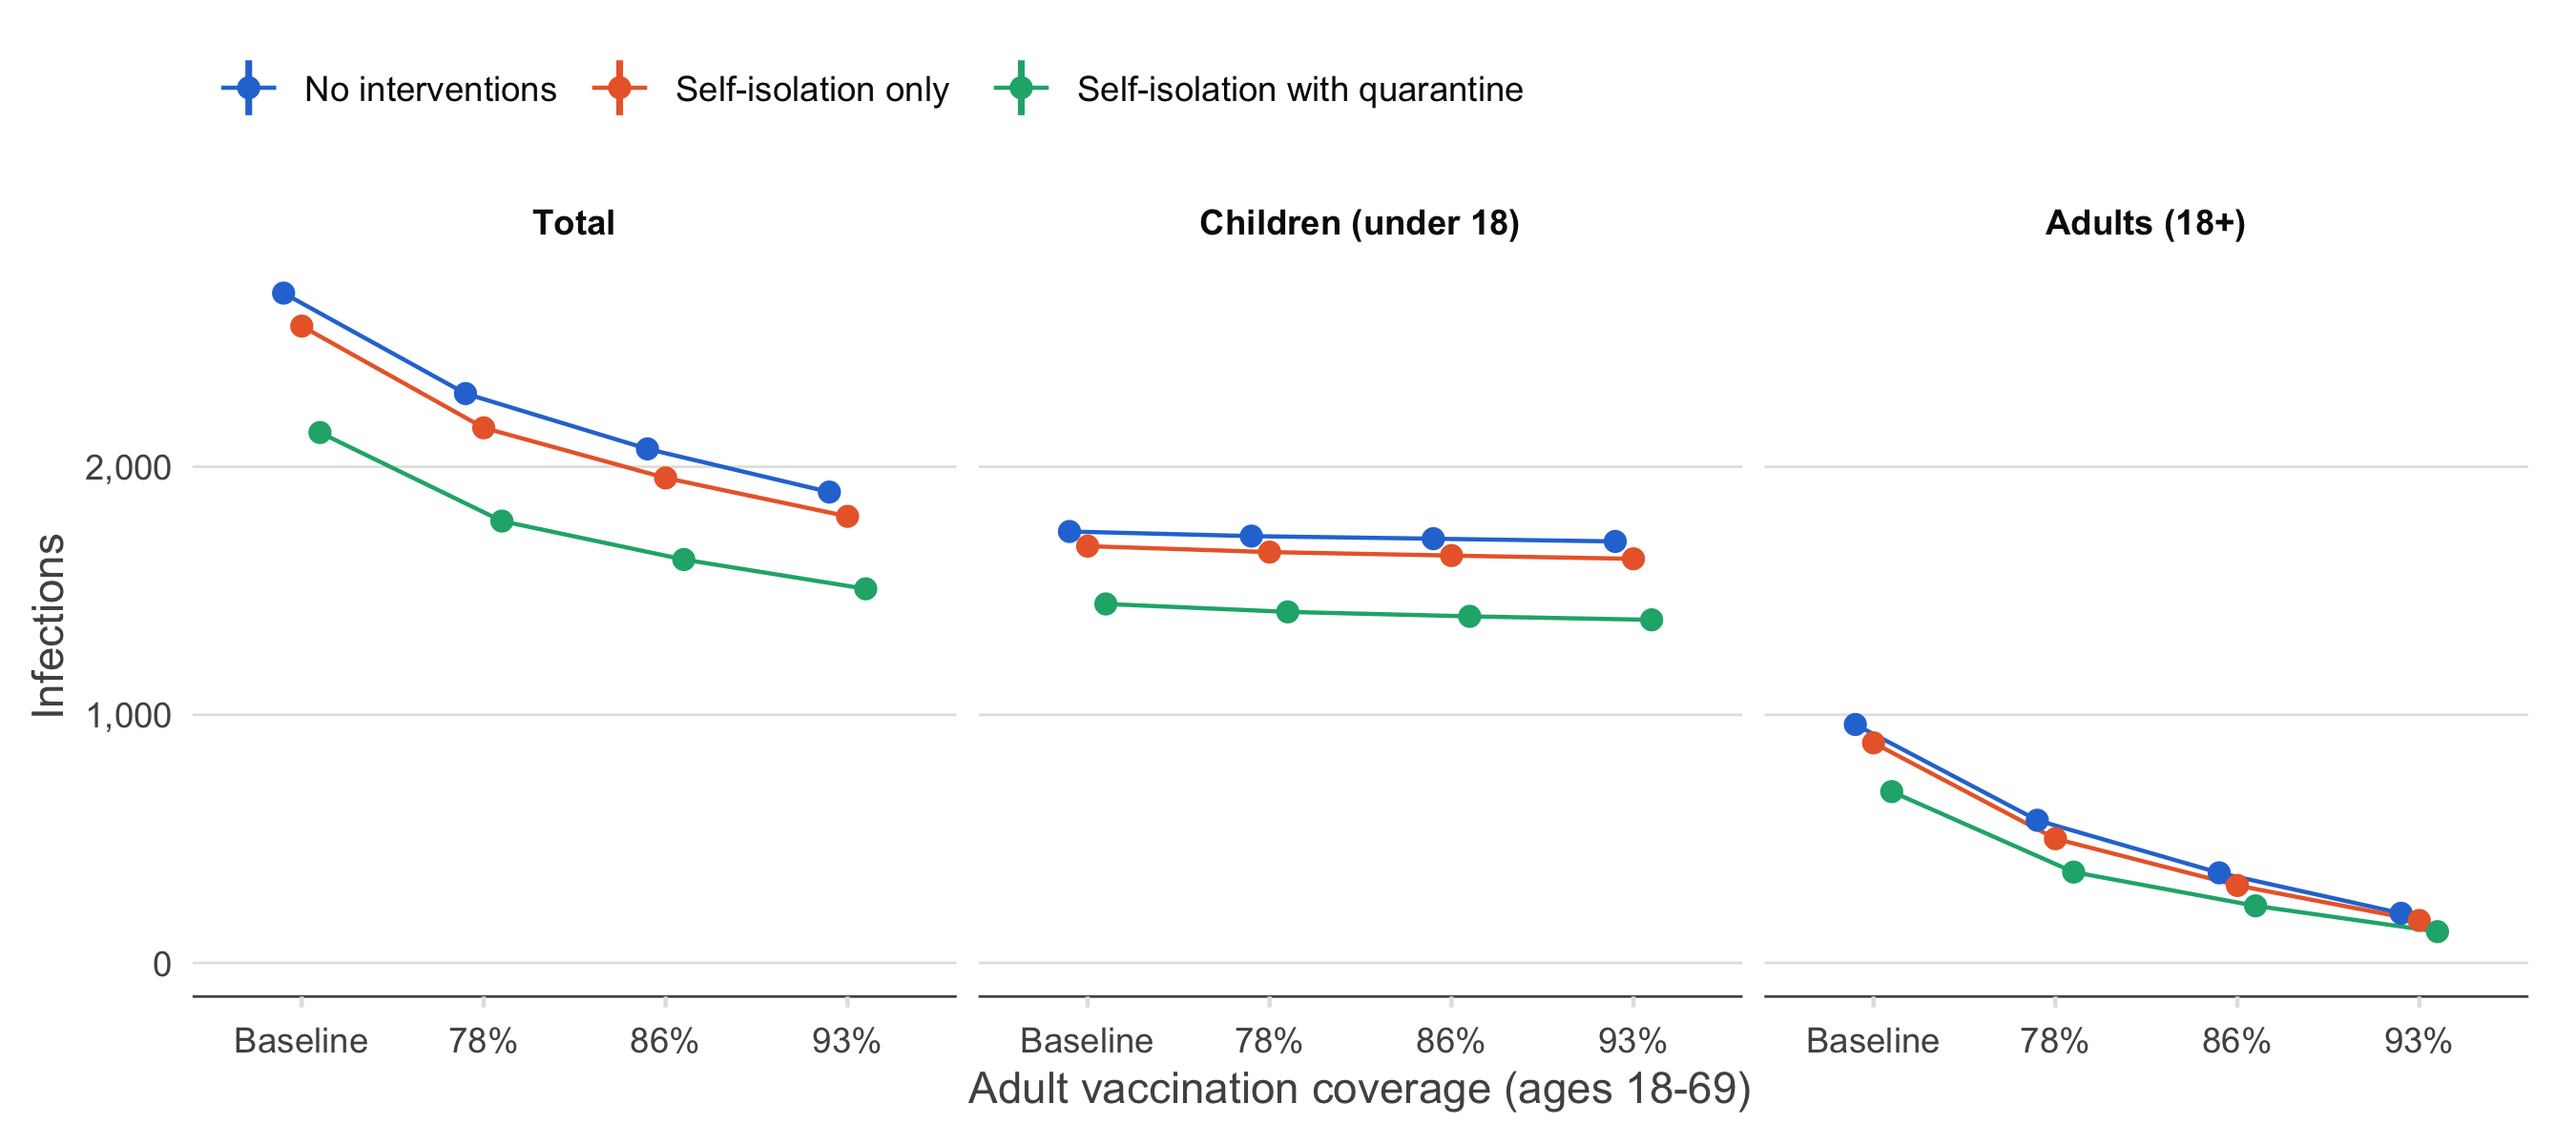
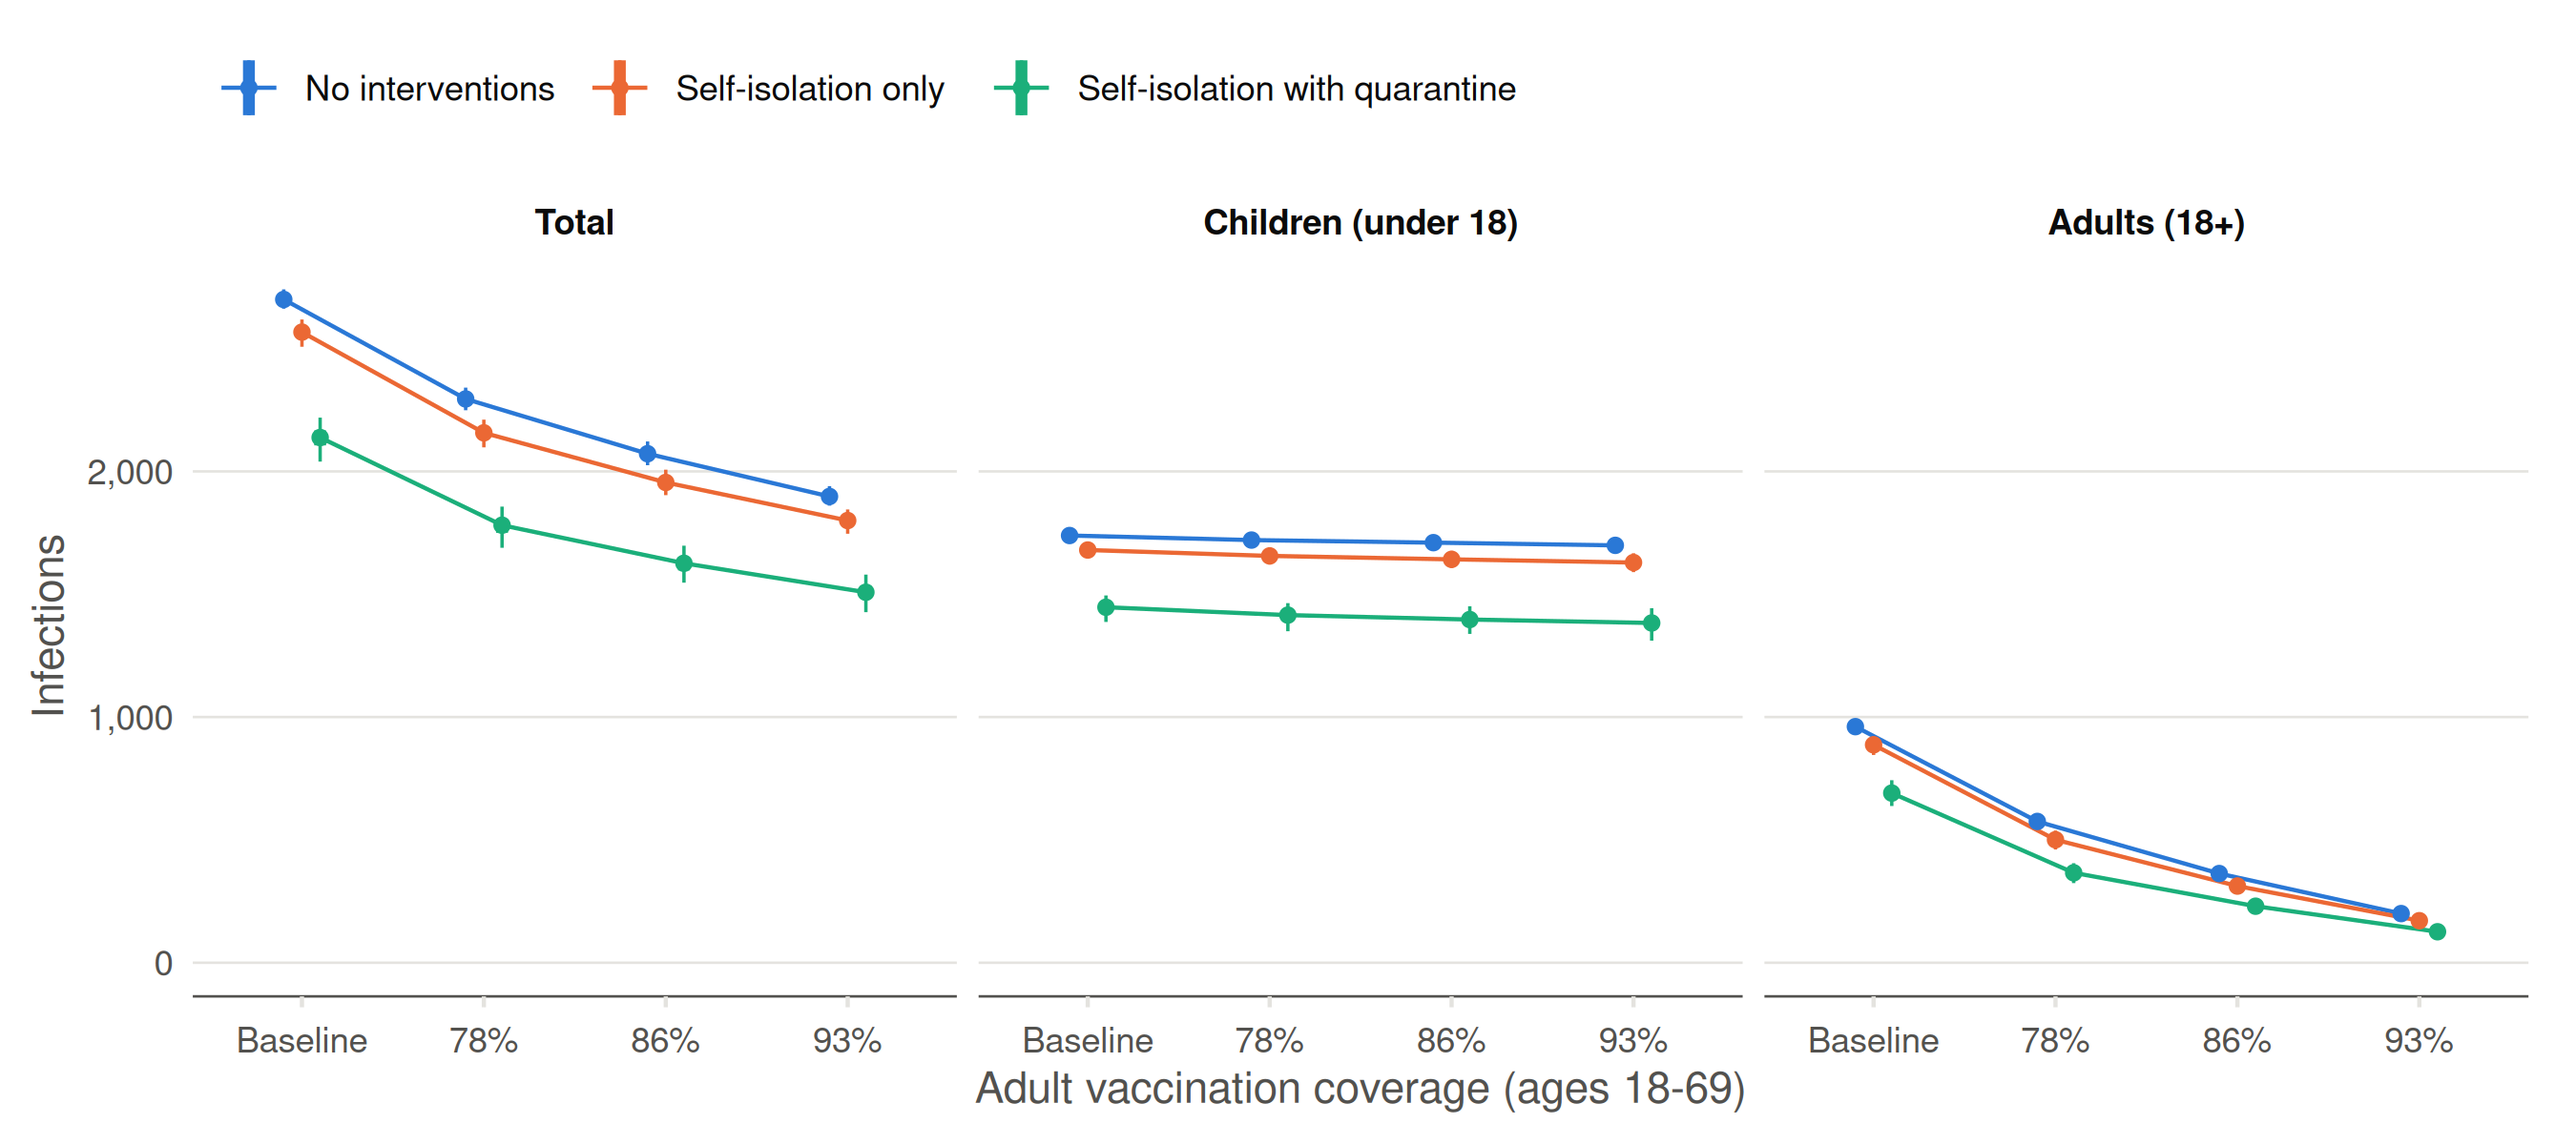
Show 50% and 95% intervals in Figure SI 11
Points are the medians; thick bars the interquartile range and thin bars
the 2.5-97.5% range across the simulations with at least 10 cases. The
points are smaller so that the bars show, and the caption says what each
mark is.

diff --git a/population_immunity/README.md b/population_immunity/README.md
@@ -48,8 +48,7 @@ years, under no interventions, self-isolation only, and self-isolation
 with quarantine. Panels show total infections, infections among children
 younger than 18 years, and infections among adults aged 18 years or
 older. Points denote the median at day 365 across simulations with at
-least 10 cases. The interquartile ranges are drawn as vertical bars but
-are mostly hidden by the points, since they span only 15 to 61
-infections; they are listed in the table.
+least 10 cases; thick and thin vertical bars denote the 50%
+(interquartile) and 95% intervals across those simulations.
 
 </div>
